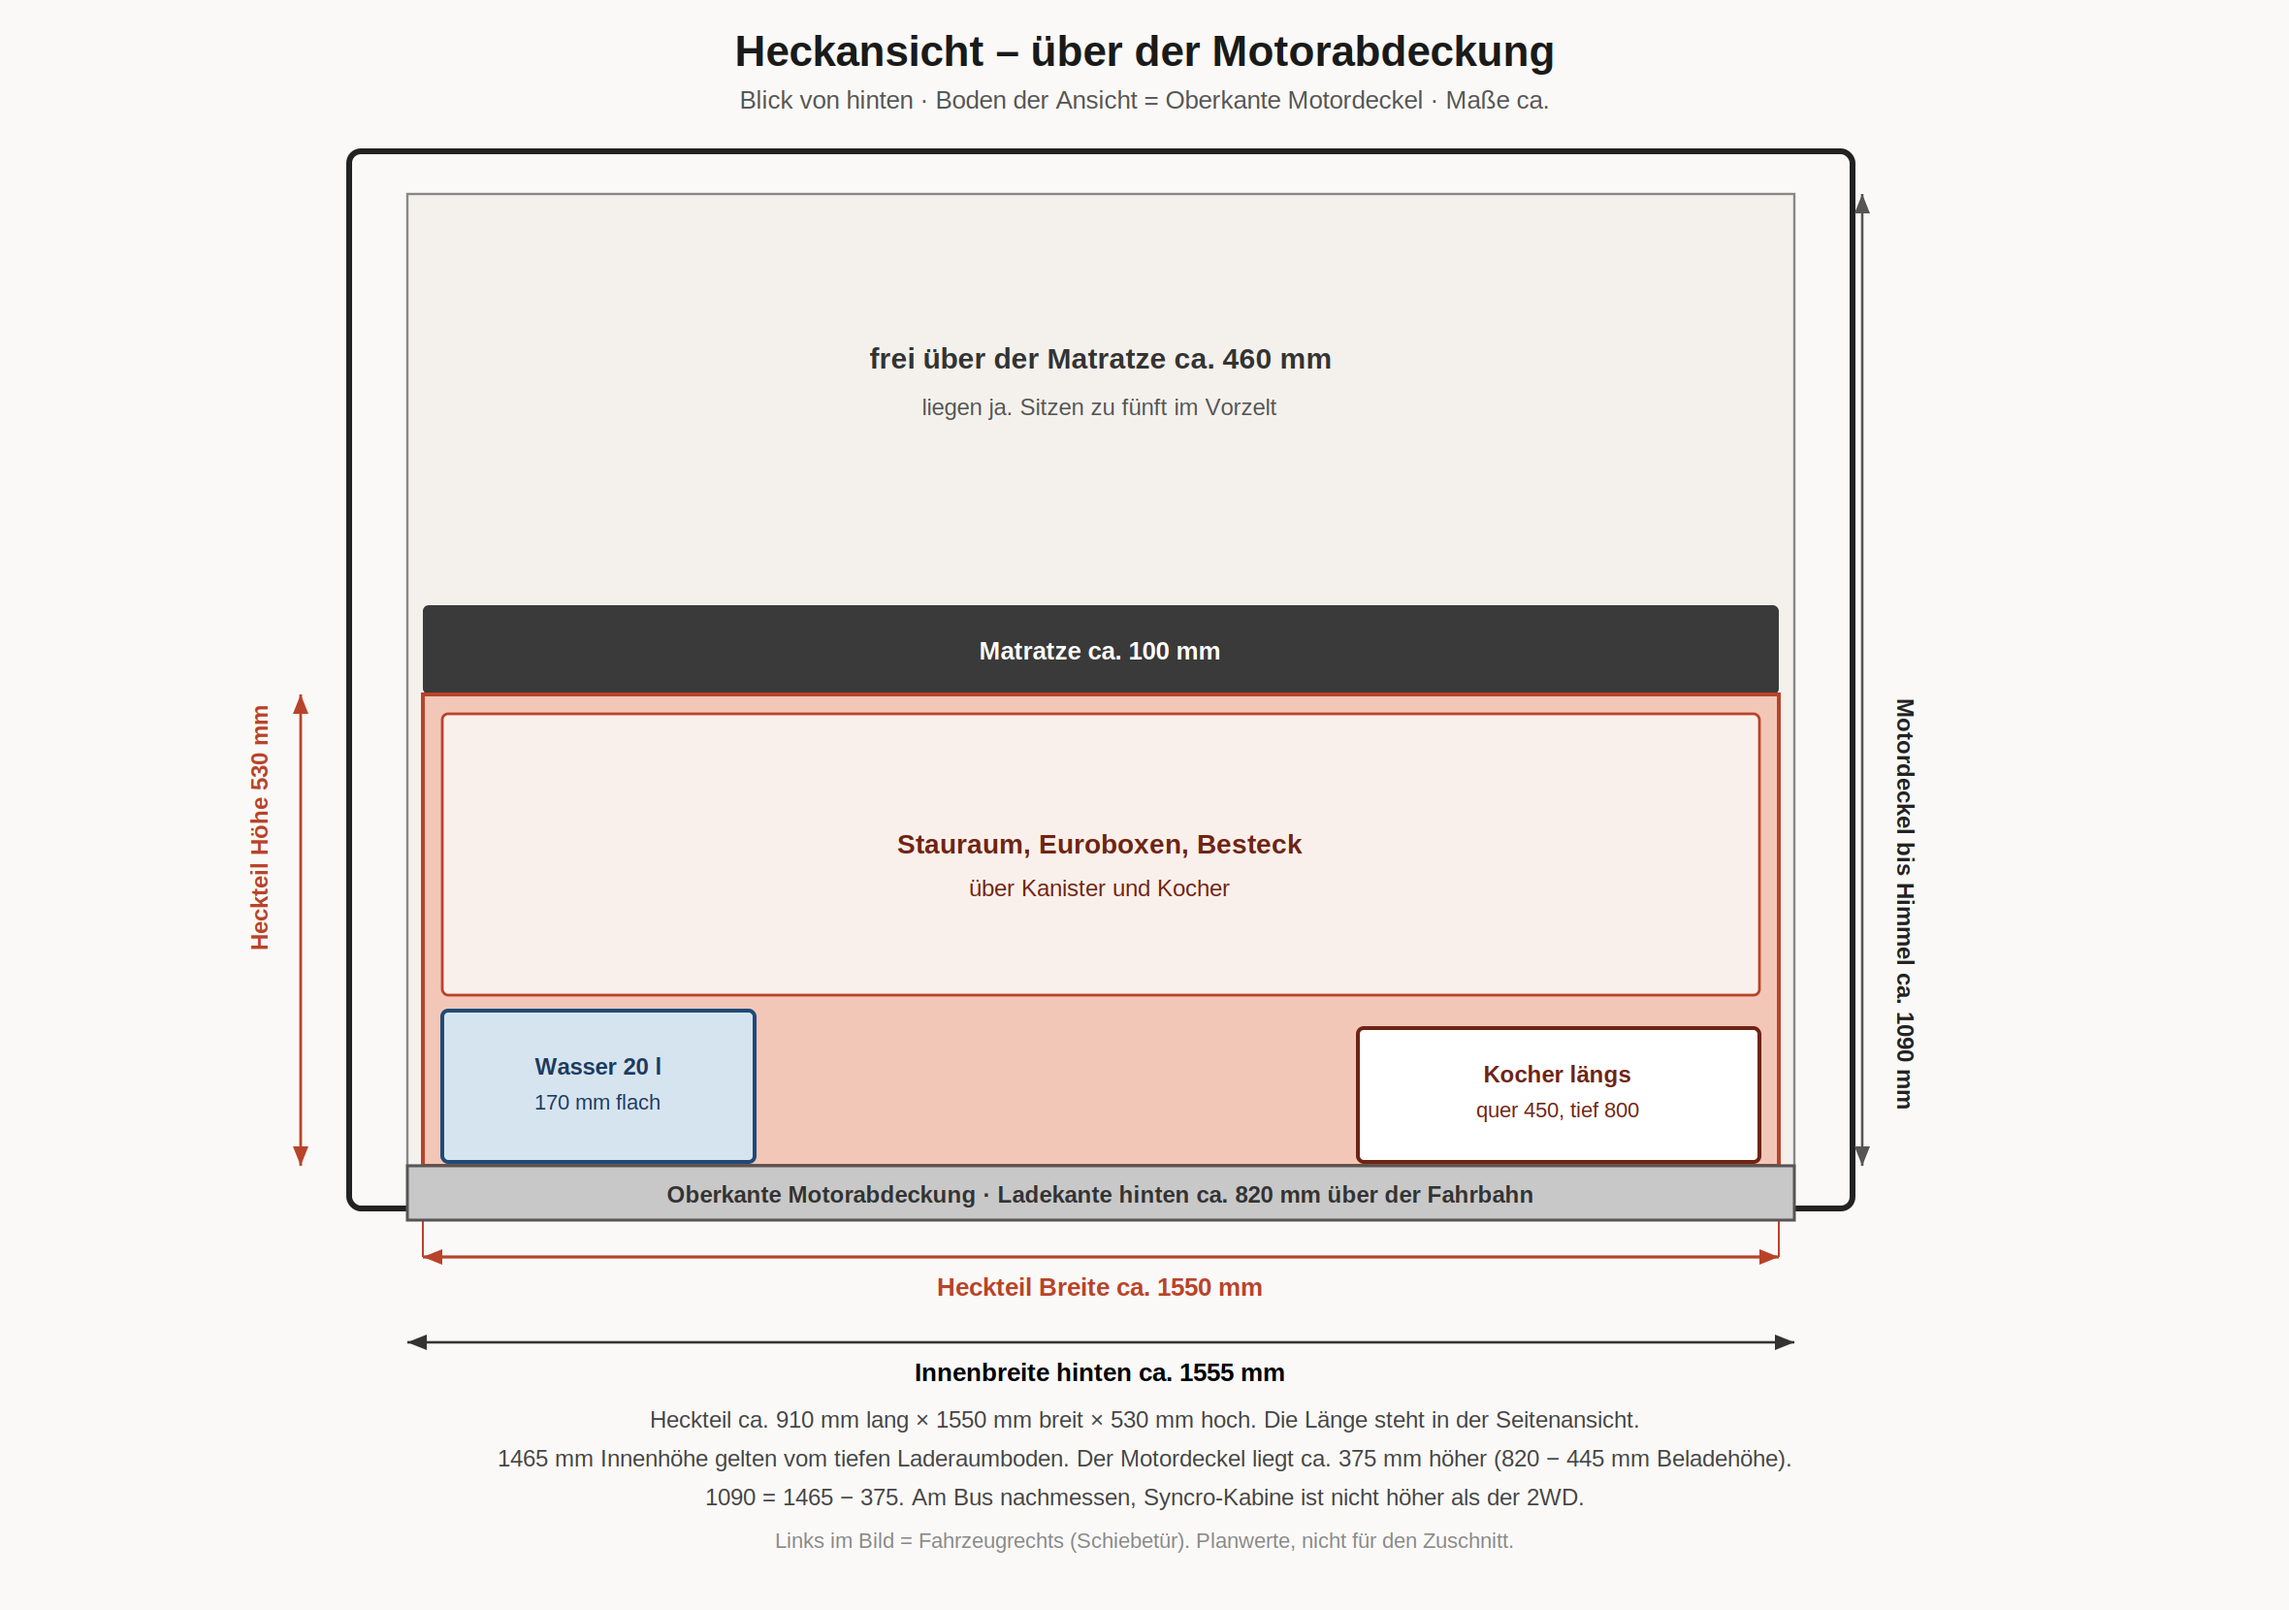
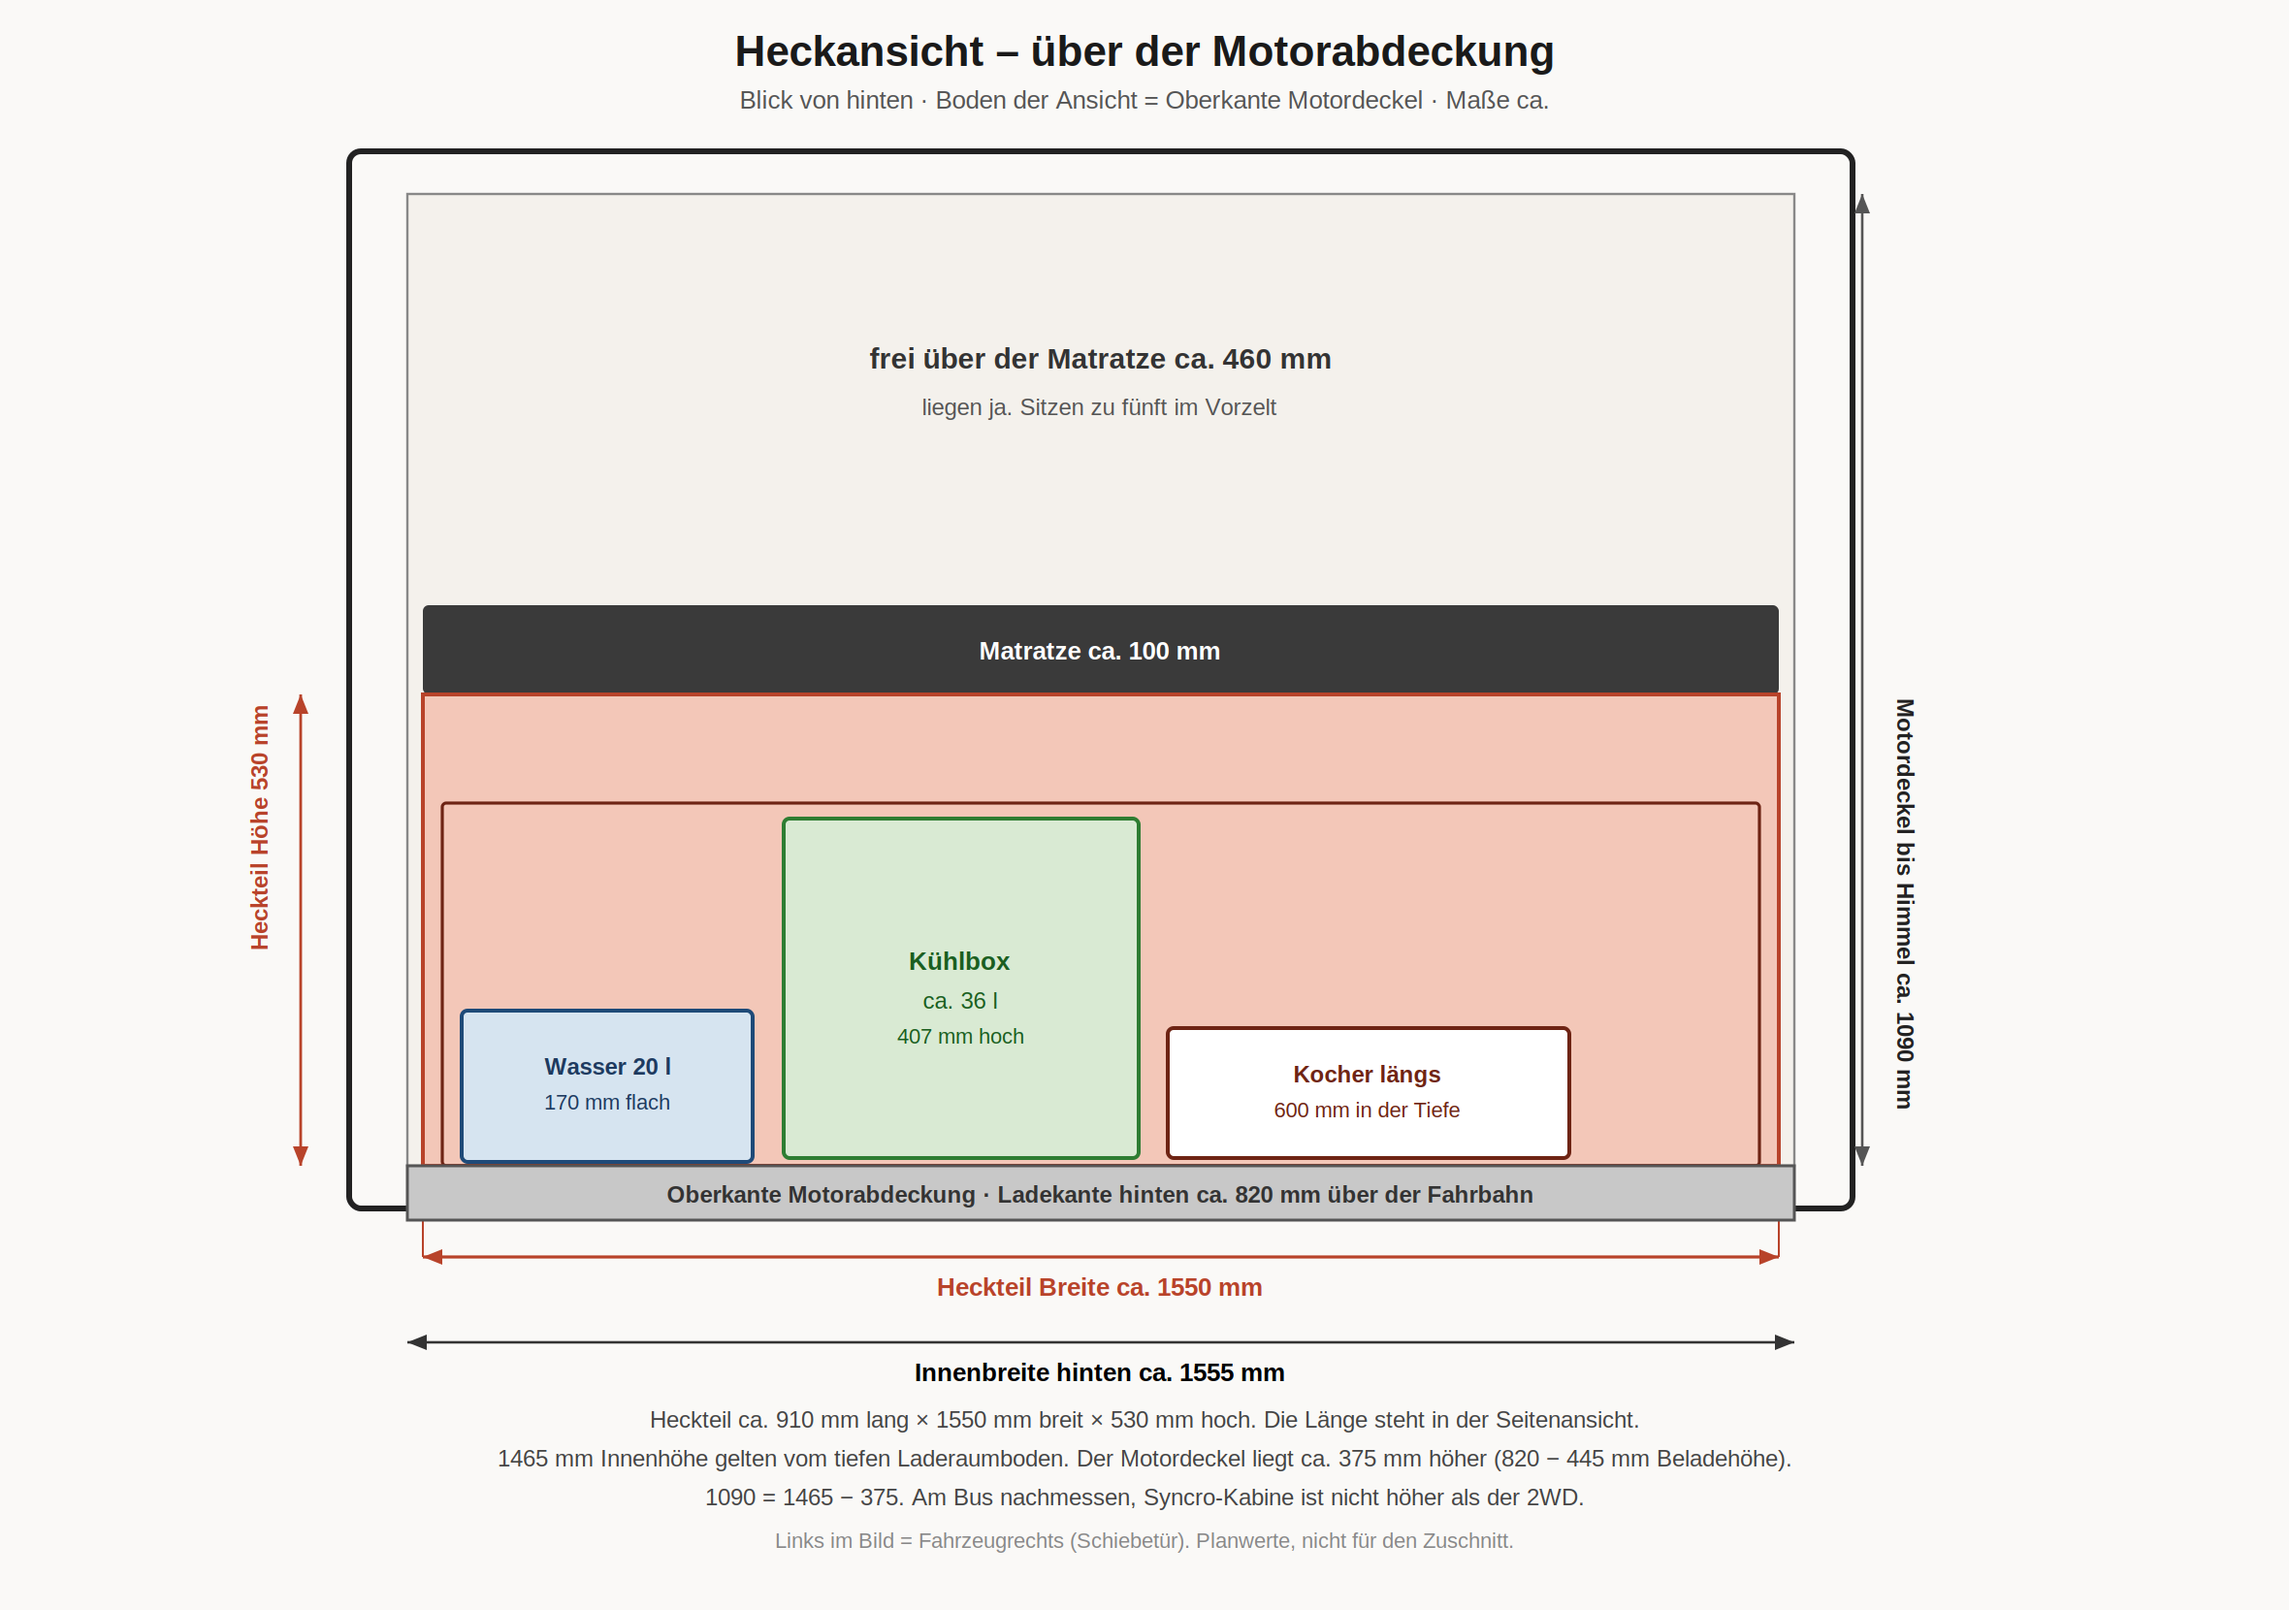
Put a 36-liter cooler on the heavy-duty rear drawer
A 45-liter box is too tall for the 530 mm deck. The 36-liter class fits between the water can and the stove, because the cooler is too long to sit behind the can in the 800 mm drawer.

Changed region(s): [[0.1856, 0.4301, 0.7733, 0.7373]]

diff --git a/docs/t3-syncro-camping-referenz.md b/docs/t3-syncro-camping-referenz.md
@@ -21,7 +21,7 @@ Die Campingbox bleibt so, bis am Bus nachgemessen wird. Kein Materialzuschnitt i
 
 **Box:** Liege oben, eben. Vorderer Teil ca. 980 mm auf dem tiefen Boden, Stauraum dort ca. 900 mm hoch. Heckteil auf der Motorabdeckung ca. **910 × 1550 × 530 mm** (Länge × Breite × Höhe). Die Motorabdeckung selbst ist nur ca. 1190 mm breit, der Kasten geht bis an die Seiten. Der hohe Kasten ist Stauraum, nicht Sitzfreiheit.
 
-**Heckauszug** (von der Heckklappe): flacher Wasserkanister, Höhe max. 170 mm, ca. 20 l, neben dem Doppel-Gaskocher. Der Kocher steht **längs** in einem Auszug von ca. **800 × 450 × 150 mm**, damit ein 2-Flammer mit ca. 600 mm Breite hineinpasst. Darüber der große Stauraum. Der LifeSaver Jerrycan bleibt draußen. Kochen nur bei offener Heckklappe.
+**Heckauszug** (von der Heckklappe): ein **Schwerlastauszug**, ca. 800 mm lang und über die Breite verteilt. Darin nebeneinander: Doppelkocher längs (ca. 600 mm in Fahrtrichtung), Kühlbox ca. 36 l zwischen Kanister und Kocher, flacher Wasserkanister 20 l. Der LifeSaver Jerrycan bleibt draußen. Kochen nur bei offener Heckklappe. Der hohe Stauraum über diesem Auszug entfällt, der bleibt im vorderen Boxteil.
 
 **Schlechtwetter:** Aufenthalt zu fünft im Vorzelt an der Schiebetür, nicht auf der Liege. Abschnitt 7.3.
 
@@ -309,7 +309,7 @@ Heckklappe  ← Beladehöhe ~820 mm | Öffnung nutzt Innenbreite ~1555 mm
 │ │  Liegefläche auf Box-Deckel             │ │  Box ~1550 mm breit
 │ │  + Verlängerung → Σ Länge ~1880–1900 mm │ │  Box ~1500–1700 mm tief
 │ └─────────────────────────────────────────┘ │
-│ │ Stauraum Eurobox / Kühlbox ~530 mm hoch    │ │
+│ │ Schwerlastauszug: Kocher, Kühlbox, Kanister │ │
 └─────────────────────────────────────────────┘
          ↑ Zurrgurte (Detail später)
 ┌─────────────────────────────────────────────┐
@@ -368,9 +368,9 @@ Priorisierte Packliste (nur was wirklich im Bus bleiben soll):
 | 1 | Schlafsäcke / Decken / Kissen (tags) | Kompressionsbeutel |
 | 2 | Wechselkleidung 2 Erwachsene | 1× Eurobox 600×400 |
 | 3 | Küchen-Minimum (Gas abseits Fahrzeugregeln beachten) | 1× flache Box |
-| 4 | Kühlbox 12 V (kompressor, schmal) | z. B. ~20–30 l, Quereinbau |
+| 4 | **Kühlbox 12 V, Kompressor, ca. 36 l** | im Schwerlastauszug, zwischen Kanister und Kocher |
 | 0 | **flacher Wasserkanister, ca. 20 l** | Heckfach, liegend, Höhe max. 170 mm |
-| 0b | **Doppel-Gaskocher** | Auszug längs, Fach ca. 800×450×150 mm |
+| 0b | **Doppel-Gaskocher** | im Schwerlastauszug, längs, daneben Kühlbox und Kanister |
 | 5 | Werkzeug / Recovery klein | 1 Fach, zugänglich von Heck |
 | — | Rucksäcke, Kinder-Dachzelt, Fahrräder | **→ Anhänger**; Busdach nur Reisegepäck |
 
@@ -398,17 +398,26 @@ Reliance Aqua-Tainer 15 l ist 29 × 29 × 27,5 cm und bleibt zu hoch. Der 26-l-K
 
 ### 4.6b Doppel-Gaskocher im Heckauszug
 
-Der Heckauszug nimmt neben dem Stauraum einen **2-Flammen-Kocher** auf. Der Heckteil ist ca. 910 mm tief, der Auszug liegt **längs** darin, ca. 800 mm lang. Damit passt ein Doppelkocher mit ca. **600 mm Breite**: die 600 mm zeigen in Fahrtrichtung, nicht quer. In den restlichen ca. 200 mm des Auszugs stehen Kartusche und eine flache Besteckrolle.
+Der Heckauszug ist ein **Schwerlast-Vollauszug**. Darauf stehen nebeneinander der Kocher, die Kühlbox und der Wasserkanister. Der Heckteil ist 910 mm tief und 1550 mm breit, der Deckel liegt 530 mm über dem Motor.
 
-Zum Vergleich die kleinere Klasse Campingaz Camping Kitchen 2: geschlossen **490 × 320 × 100 mm**, offen **490 × 350 × 350 mm**. Die passt auch. Die Fachhöhe bleibt 150 mm, geschlossen. Offen ist der Kocher ca. 35 cm hoch und steht dafür vor der Ladekante.
+Für fünf Personen wäre eine Kühlbox um 45 l angenehm. Die gängige Klasse in der Größe, zum Beispiel die [Dometic CFX3 45](https://www.campingshop.ch/dometic-cfx3-45-ac-dc-kompressor-kuehlbox-46-liter/CS151783), ist außen 694 × 398 × **476 mm** hoch. Mit Führung unter dem Boden passt das nicht mehr unter den 530-mm-Deckel. Die nächste Klasse, die hineinpasst, ist ca. **36 l** und ca. **407 mm** hoch, Beispiel [Dometic CFX3 35](https://www.kuehlboxtests.de/kuehlboxen/dometic-cfx3-35/): 694 × 398 × 407 mm, leer ca. 17 kg. Das ist der Vorrat für Milch, Aufschnitt und ein paar Getränke über zwei bis drei Tage, nicht der Getränkekeller für eine Woche.
+
+Hinter dem Kanister hat die Kühlbox keinen Platz. Der Auszug ist 800 mm tief, der Kanister belegt davon ca. 460 mm, die Kühlbox ist selbst ca. 694 mm lang. 460 + 694 liegen über 800. Sie steht deshalb **zwischen Kanister und Kocher**, quer nebeneinander:
+
+| Platz von links nach rechts | Maß | Höhe |
+| --- | --- | --- |
+| Wasserkanister 20 l, flach | Grundfläche ca. 350 × 460 mm | 170 mm |
+| Kühlbox ca. 36 l | ca. 694 × 398 mm | 407 mm |
+| Doppelkocher, 600 mm in Fahrtrichtung | quer ca. 450 mm, längs 800 mm Fach | geschlossen 100–110 mm, Fachhöhe 150 mm |
+
+Der Kocher bleibt längs. In seinen 800 mm bleiben hinter den 600 mm ca. 200 mm für Kartusche und Besteckrolle. Die Kühlbox füllt ihre Spur fast auf ganzer Tiefe.
 
 | | Plan |
 | --- | --- |
-| Lage | im **Heckauszug**, **längs**, Deckel nach oben. Die 600 mm Breite laufen in Fahrtrichtung |
-| Lichtes Fach | ca. **800 × 450 × 150 mm** (Länge × Breite quer × Höhe). 800 mm lassen im 910-mm-Heckteil ca. 110 mm für Stirnwand und Führung |
-| Betrieb | Auszug so weit heraus, dass der Kocher **vor der Ladekante** steht und der Deckel frei aufklappen kann. Voll ausgezogen hängen ca. 80 cm hinter dem Heck. Der Kasten ist nur verzurrt, der Auszug wird beim Kochen nicht als Tisch belastet |
-| Gas und Besteck | im selben Auszug hinter dem Kocher, in den ca. 200 mm. Kartusche stehend und verzurrt. Eine kleine Kartusche wie die CV 300 Plus ist ca. Ø 90 × 105 mm |
-| Wasser | flacher Kanister im Nachbarfach, Höhe max. 170 mm. Darüber und neben dem Auszug liegt der Stauraum der 530-mm-Box |
+| Auszug | ca. **800 × 1400 × 450 mm** lichte Spur (Länge × Breite × Höhe bis unter den Deckel). Schwerlast-Vollauszug, Tragkraft mit Reserve über 100 kg, bei der Breite eine Führung links, rechts und in der Mitte |
+| Gewicht grob | Kühlbox beladen ca. 30 kg, Wasser 20 kg, Kocher mit Kartusche ca. 5 kg, plus Auszug. Beim Kochen kommt das nach hinten heraus. Gurte am Kasten müssen das halten. Kein Tisch |
+| Betrieb | Auszug so weit heraus, dass der Kocher vor der Ladekante steht und der Deckel aufgehen kann (offen ca. 35 cm). Die Kühlbox fährt mit |
+| Strom | 12 V über eigene Sicherung, nicht dauerhaft am nackten Zigarettenanzünder. Die 36-l-Klasse zieht im Betrieb grob 4–5 A |
 
 Kochen nur bei **offener Heckklappe** und ausgezogenem Kocher, nicht im geschlossenen Bus. Die Geräte dieser Klasse sind laut Hersteller nicht für geschlossene Räume. Keine feste Gasanlage, kein Einbaukocher – der Kocher bleibt ein herausnehmbares Campinggerät.
 
@@ -585,7 +594,8 @@ Modell noch offen. Gesucht wird ein Vorzelt zum Stehen und Sitzen für fünf, da
 | Küche fest | nein | Kocher bleibt loses Gerät im Auszug |
 | Trinkwasser | flacher Kanister ca. 20 l, Höhe max. 170 mm | LifeSaver bleibt draußen. Die 530 mm Höhe bleibt für den Stauraum |
 | Aufenthalt Regen | Vorzelt an der Schiebetür, 5 Personen | im Bus wird gelegen, nicht gesessen |
-| Kocher | 2-Flammer längs im Heckauszug, Fach ca. 800×450×150 mm | 60-cm-Breite passt in die 91 cm Tiefe; nur bei offener Klappe |
+| Kocher | 2-Flammer längs im Schwerlastauszug | 600 mm in Fahrtrichtung, Kartusche in den restlichen 200 mm |
+| Kühlbox | ca. 36 l, ca. 407 mm hoch, zwischen Kanister und Kocher | 45 l ist ca. 476 mm hoch und passt nicht unter den 530-mm-Deckel |
 | Zugriff vorn | 300 mm seitlich an der rechten Schiebetür, Rest von oben | Türöffnung deckt den Kasten nicht auf ganzer Länge |
 | Schlafen Kinder | Dachzelt auf dem Pongratz 230er Heavy | Ladefläche 223 × 125 cm; Busdach nur Gepäck |
 | Räder | 2 MTB an der Deichsel, Kinderräder im Hänger | Stützlast eingetragen 75 kg; mit Waage prüfen |
@@ -610,6 +620,8 @@ Modell noch offen. Gesucht wird ein Vorzelt zum Stehen und Sitzen für fünf, da
 | [Pongratz EPA 230/12 G-RS-STK](https://pongratztrailers.com/anhaenger/epa-230-12-g-rs-stk.1300/) | 230er-Heavy-Serie: 2230×1250×400 mm, 1300/286/1014 kg |
 | [Nakatanenga Wasserkanister](https://www.dachzelt24.de/kunststoff-wasserkanister-wassertank-mit-ausgusshahn-20l-oder-10l/NAWTAN020-GRY) | 20 l: 350×460×170 mm; 10 l: 260×370×140 mm |
 | [RotopaX 2 Gallon Water](https://www.rotopax.com/products/2-gallon-water) | 7,6 l, 457×356×76 mm |
+| [Dometic CFX3 35](https://www.kuehlboxtests.de/kuehlboxen/dometic-cfx3-35/) | Kühlbox-Klasse 36 l: 694×398×407 mm |
+| [Dometic CFX3 45](https://www.campingshop.ch/dometic-cfx3-45-ac-dc-kompressor-kuehlbox-46-liter/CS151783) | 46 l: 694×398×476 mm, zu hoch für 530 mm Deckel |
 | Pongratz Anleitungen Lastenträger, Dachträger am Polyesterdeckel, PE-Deckel mit Aufsatzwand | Träger statt Deckel klemmt auf die Bordwand; Dachträger am Deckel ist Leichtgut |
 
 ---
@@ -659,6 +671,7 @@ Modell noch offen. Gesucht wird ein Vorzelt zum Stehen und Sitzen für fünf, da
 | 2026-09-24 | Heckteil wieder ca. 530 mm wegen Stauraum. Sitzen zu fünft im Vorzelt, nicht auf der Liege |
 | 2026-09-24 | Heckteil bemaßt: ca. 910 × 1550 × 530 mm, in Seiten- und Heckansicht eingezeichnet |
 | 2026-09-24 | Kocherauszug längs, ca. 800 mm, damit ein 2-Flammer mit ca. 600 mm Breite hineinpasst |
+| 2026-09-24 | Schwerlastauszug: Kühlbox ca. 36 l zwischen Kanister und Kocher. 45 l ist zu hoch |
 | 2026-09-24 | Box-Follow-up: Geometrie bleibt pausiert; Anhänger ist entschieden, Kocher bleibt im Heckauszug |
 
 ---
